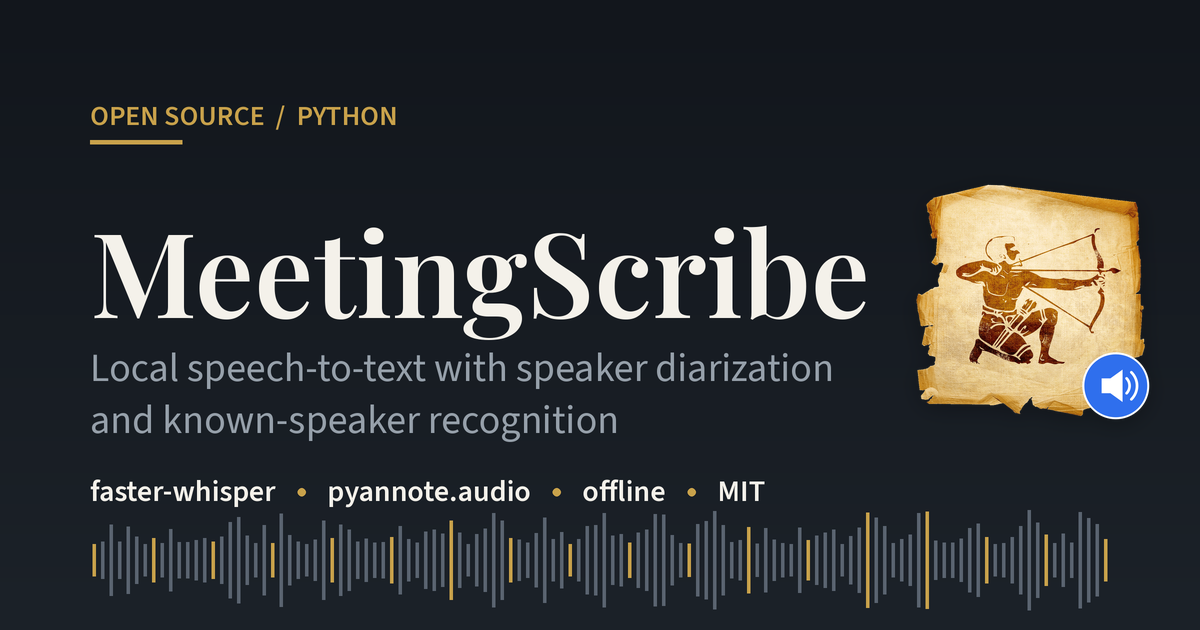
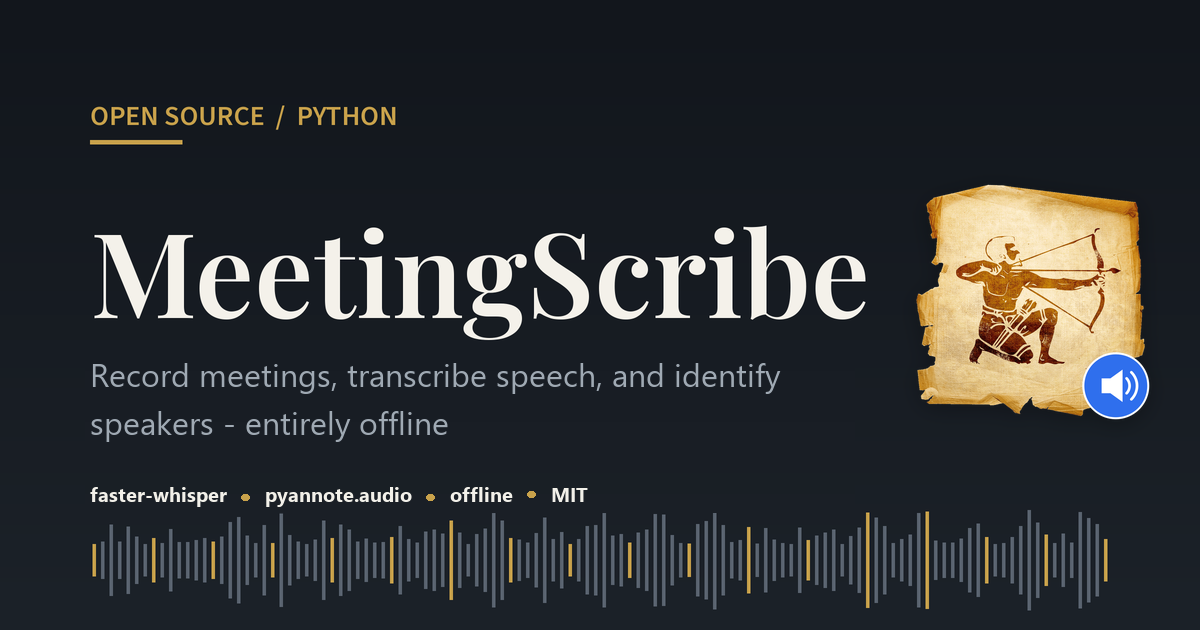
docs: update cover image and feature list for the new recording capability

Changed region(s): [[0.0617, 0.573, 0.7092, 0.6937], [0.0617, 0.754, 0.555, 0.8143], [0.5858, 0.754, 0.6475, 0.8143]]

diff --git a/README.uk.md b/README.uk.md
@@ -43,6 +43,11 @@ API, аудіо ніколи не залишає комп'ютер.
 ## Можливості
 
 - Нативний десктопний GUI (Windows) - командний рядок не потрібен для щоденного використання.
+- Вбудований запис: мікрофон, системний звук (те, що чути через
+  колонки/навушники), або обидва одразу, змішані в один файл - з живими
+  шкалами рівня, паузою/відновленням, відліком 3-2-1, щоб нічого не
+  обрізалось на старті, глобальним сполученням клавіш для запису/зупинки, і
+  індикатором запису на іконці панелі задач.
 - Повністю локально - працює офлайн після завантаження моделей; аудіо нікуди не
   надсилається.
 - Діаризація спікерів (хто коли говорив) через pyannote `speaker-diarization-3.1`.

diff --git a/README.md b/README.md
@@ -42,6 +42,11 @@ falls back to a plain transcript with timestamps.
 ## Features
 
 - Native desktop GUI (Windows) - no command line needed for everyday use.
+- Built-in recording: microphone, system audio (what's playing through your
+  speakers/headset), or both at once, mixed into one file - with live level
+  meters, pause/resume, a 3-2-1 countdown so nothing gets clipped at the
+  start, a system-wide start/stop shortcut, and a recording-in-progress
+  badge on the taskbar icon.
 - Fully local - runs offline once models are downloaded; no audio uploaded anywhere.
 - Speaker diarization (who spoke when) via pyannote `speaker-diarization-3.1`.
 - Recognition and speaker identification are separate steps: run both at once,
